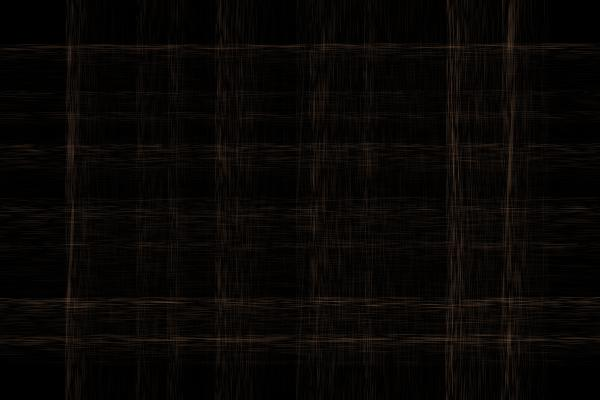
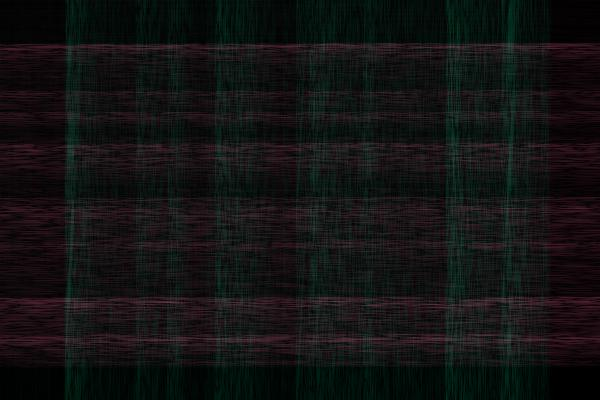
Updating soundscolor...

diff --git a/soundscolor/soundscolor.py b/soundscolor/soundscolor.py
@@ -1,4 +1,5 @@
 import warnings
+import math
 import time as tm
 import numpy as np
 import json as js
@@ -15,7 +16,7 @@ class SoundsColor():
 		self.starttime = None
 		self.outPath = None
 		self.outFile = None
-		self.mode = None
+		self.direction = None
 		self.iw = None
 		self.ih = None
 		self.imagedata = None
@@ -34,21 +35,21 @@ class SoundsColor():
 		self.starttime = tm.time()
 		if self.audioch == 1:
 			print("-- ready to process " + str(self.audiodata.shape) + " samples...")
-			if self.mode == "horizontal":
+			if self.direction == "horizontal":
 				SoundsColor.mapMono(self.audiodata, self.imagedata, self.iw, self.ih, self.cfactors, 0)
-			elif self.mode == "vertical":
+			elif self.direction == "vertical":
 				SoundsColor.mapMono(self.audiodata, self.imagedata, self.iw, self.ih, self.cfactors, 1)
-			elif self.mode == "both":
+			elif self.direction == "both":
 				SoundsColor.mapMono(self.audiodata, self.imagedata, self.iw, self.ih, self.cfactors, 2)
 			else:
 				print("-- I don't know what to do with this mode...", end="\n")
 		elif self.audioch == 2:
 			print("-- ready to process " + str(self.audiodata.shape[0]) + " samples...")
-			if self.mode == "horizontal":
+			if self.direction == "horizontal":
 				SoundsColor.mapStereo(self.audiodata, self.imagedata, self.iw, self.ih, self.cfactors, 0)
-			elif self.mode == "vertical":
+			elif self.direction == "vertical":
 				SoundsColor.mapStereo(self.audiodata, self.imagedata, self.iw, self.ih, self.cfactors, 1)
-			elif self.mode == "both":
+			elif self.direction == "both":
 				SoundsColor.mapStereo(self.audiodata, self.imagedata, self.iw, self.ih, self.cfactors, 2)
 			else:
 				print("-- I don't know what to do with this mode...", end="\n")
@@ -89,17 +90,20 @@ class SoundsColor():
 
 	def getColor(amplitude, rf, gf, bf):
 		color = np.zeros(3, dtype="uint8")
-		color[0] = round(amplitude * rf)
-		color[1] = round(amplitude * gf)
-		color[2] = round(amplitude * bf)
+		color[0] = round(SoundsColor.mapAmplitude(amplitude, rf))
+		color[1] = round(SoundsColor.mapAmplitude(amplitude, gf))
+		color[2] = round(SoundsColor.mapAmplitude(amplitude, bf))
 		return color
 
 	def getHalfColor(amplitude, rf, gf, bf):
 		color = np.zeros(3, dtype="uint8")
-		color[0] = round(amplitude * rf / 2)
-		color[1] = round(amplitude * gf / 2)
-		color[2] = round(amplitude * bf / 2)
+		color[0] = round(SoundsColor.mapAmplitude(amplitude, rf) / 2)
+		color[1] = round(SoundsColor.mapAmplitude(amplitude, gf) / 2)
+		color[2] = round(SoundsColor.mapAmplitude(amplitude, bf) / 2)
 		return color
+
+	def mapAmplitude(amplitude, factor):
+		return math.sqrt(amplitude) * factor
 
 	def save(filepath, filename, idata):
 		image = im.fromarray(idata)
@@ -107,7 +111,7 @@ class SoundsColor():
 		print("-- output image file saved!", end="\n")
 
 	def setConfig(self, data):
-		self.mode = data["mode"]
+		self.direction = data["direction"]
 		self.outPath = data["outPath"]
 		self.outFile = data["outFile"]
 		self.iw = data["width"]

diff --git a/soundscolor/README.md b/soundscolor/README.md
@@ -1,6 +1,6 @@
 ![icon](https://gitlab.com/azarte/pixelative/-/raw/master/assets/img/logo_64.png)
 
-# pixelative
+# pixelative: soundscolor
 
 Here I am exploring options to transform audio data into images... Work in progress!  
 
